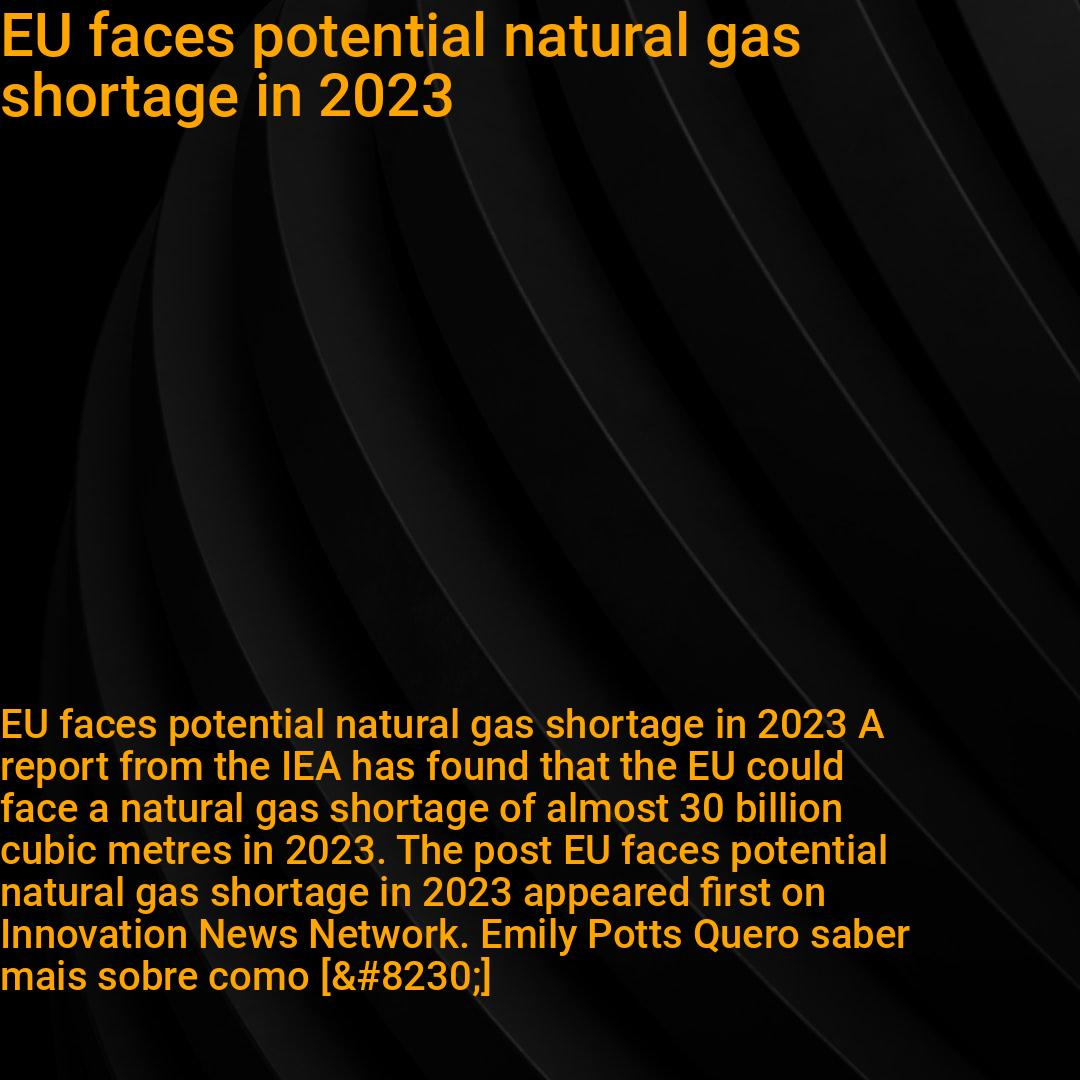
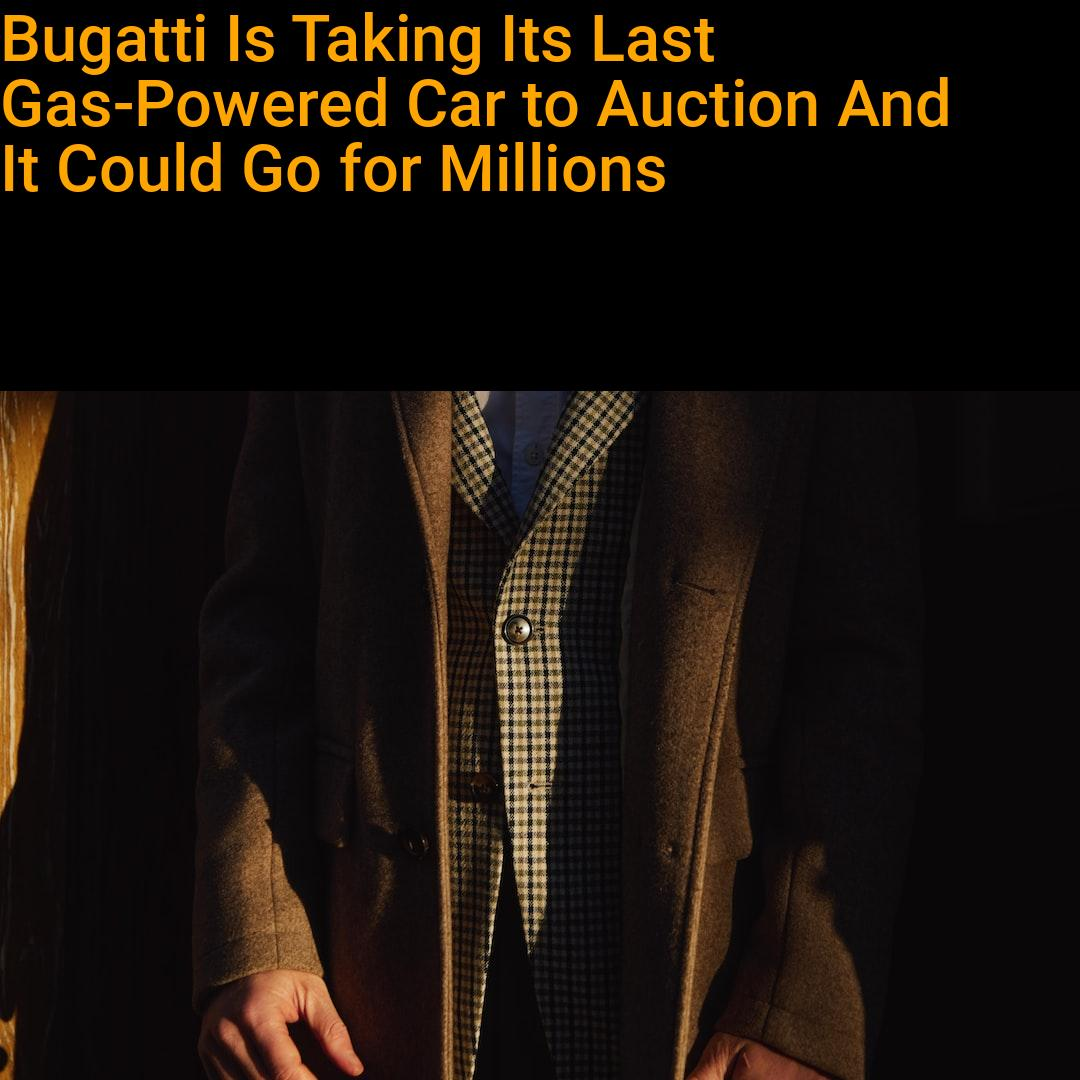
uyiyiuy

diff --git a/feed.py b/feed.py
@@ -1,3 +1,4 @@
+import math
 import feedparser
 from random import seed
 from random import randint
@@ -10,10 +11,8 @@ from datetime import datetime
 import urllib.request
 from PIL import Image
 
-W,H = (1080,1080)
-
 urllib.request.urlretrieve(
-  'https://source.unsplash.com/1080x1080/?black',
+  'https://source.unsplash.com/1080x1080/',
    "gfg.png")
   
 img = Image.open("gfg.png")
@@ -21,6 +20,13 @@ img = Image.open("gfg.png")
 draw = ImageDraw.Draw(img)
 
 d = feedparser.parse('https://sucesso.hmr1973.com/feed/')
+ 
+w, h = 1080, 390
+shape = [(0, 0), (w, h)]
+ 
+# create  rectangleimage
+img1 = ImageDraw.Draw(img)  
+draw.rectangle(shape, fill ="#000000", outline ="black")
 
 qtde = (len(d['entries']))-1
 #seed(1)
@@ -36,14 +42,14 @@ corpo = corpo.replace("[&#8230;]", "...")
 
 text = '\n\n' + titulo + '\n\n' + corpo + '\n\nfonte: https://sucesso.hmr1973.com/ \n\nFollow me @hmr1973maia \n\n#bigdata #weworklabs #entrepreneur #innovation #cycling #datascience #innovation #technology #tech #design #business #engineering #startup #entrepreneur #science #entrepreneurship #future #marketing #creativity #architecture #sustainability #inspiration #ai #art #gadgets #digital #motivation #automation'
 
-font = ImageFont.truetype("Roboto-Medium.ttf", 60)
+font = ImageFont.truetype("Roboto-Medium.ttf", 65)
 font1 = ImageFont.truetype("Roboto-Medium.ttf", 40)
 
-textwrapped = textwrap.wrap(titulo, width=35)
-draw.text((0,0), '\n'.join(textwrapped), font=font, fill="#FFA500")
+textwrapped = textwrap.wrap(titulo, width=30)
+draw.text((0,10), '\n'.join(textwrapped), font=font, fill="#FFA500")
 
 textwrapped1 = textwrap.wrap(corpo1, width=50)
-draw.text((0,700), '\n'.join(textwrapped1), font=font1, fill="#FFA500")
+#draw.text((0,700), '\n'.join(textwrapped1), font=font1, fill="#FFA500")
 
 img.save('cur_time.jpg')
 

diff --git a/color.py b/color.py
@@ -1,0 +1,69 @@
+from sklearn.cluster import KMeans
+from sklearn import metrics
+import cv2
+import numpy as np
+image = cv2.imread("gfg.png")
+image = cv2.cvtColor(image, cv2.COLOR_BGR2RGB)
+
+# Resize it
+h, w, _ = image.shape
+w_new = int(100 * w / max(w, h) )
+h_new = int(100 * h / max(w, h) )
+
+image = cv2.resize(image, (w_new, h_new));
+
+
+# Reshape the image to be a list of pixels
+image_array = image.reshape((image.shape[0] * image.shape[1], 3))
+# Clusters the pixels
+clt = KMeans(n_clusters = 3)
+clt.fit(image_array)
+
+def centroid_histogram(clt):
+    # grab the number of different clusters and create a histogram
+    # based on the number of pixels assigned to each cluster
+    numLabels = np.arange(0, len(np.unique(clt.labels_)) + 1)
+    (hist, _) = np.histogram(clt.labels_, bins = numLabels)
+
+    # normalize the histogram, such that it sums to one
+    hist = hist.astype("float")
+    hist /= hist.sum()
+
+    # return the histogram
+    return hist
+
+
+# Finds how many pixels are in each cluster
+hist = centroid_histogram(clt)
+
+# Sort the clusters according to how many pixel they have
+zipped = zip(hist, clt.cluster_centers_)
+#zipped.sort(reverse=True, key=lambda x : x[0])
+
+hist, clt.cluster_centers = zip(*zipped)
+
+# By Adrian Rosebrock
+import numpy as np
+import cv2
+
+
+
+bestSilhouette = -1
+bestClusters = 0;
+
+for clusters in range(2, 10):
+    # Cluster colours
+    clt = KMeans(n_clusters = clusters)
+    clt.fit(image_array)
+
+    # Validate clustering result
+    silhouette = metrics.silhouette_score(image_array, clt.labels_, 
+    metric='euclidean')
+
+    # Find the best one
+    if silhouette > bestSilhouette:
+        bestSilhouette = silhouette;
+        bestClusters = clusters;
+
+print (bestSilhouette)
+print (bestClusters)

diff --git a/time_bot.py b/time_bot.py
@@ -1,8 +1,8 @@
+import math
 import feedparser
 from random import seed
 from random import randint
 import textwrap
-
 from PIL import Image 
 from PIL import ImageFont
 from PIL import ImageDraw
@@ -10,10 +10,8 @@ from datetime import datetime
 import urllib.request
 from PIL import Image
 
-W,H = (1080,1080)
-
 urllib.request.urlretrieve(
-  'https://source.unsplash.com/1080x1080/?black',
+  'https://source.unsplash.com/1080x1080/',
    "gfg.png")
   
 img = Image.open("gfg.png")
@@ -21,6 +19,13 @@ img = Image.open("gfg.png")
 draw = ImageDraw.Draw(img)
 
 d = feedparser.parse('https://sucesso.hmr1973.com/feed/')
+ 
+w, h = 1080, 390
+shape = [(0, 0), (w, h)]
+ 
+# create  rectangleimage
+img1 = ImageDraw.Draw(img)  
+draw.rectangle(shape, fill ="#000000", outline ="black")
 
 qtde = (len(d['entries']))-1
 #seed(1)
@@ -40,7 +45,7 @@ font = ImageFont.truetype("Roboto-Medium.ttf", 65)
 font1 = ImageFont.truetype("Roboto-Medium.ttf", 40)
 
 textwrapped = textwrap.wrap(titulo, width=30)
-draw.text((0,0), '\n'.join(textwrapped), font=font, fill="#FFA500")
+draw.text((0,10), '\n'.join(textwrapped), font=font, fill="#FFA500")
 
 textwrapped1 = textwrap.wrap(corpo1, width=50)
 #draw.text((0,700), '\n'.join(textwrapped1), font=font1, fill="#FFA500")

diff --git a/teste.py b/teste.py
@@ -1,0 +1,2 @@
+import cv2
+print(cv2.__version__)
